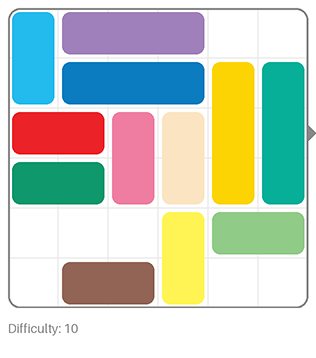
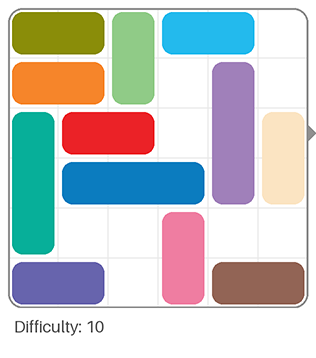
Increase the font size on the card and update the sample image

diff --git a/rushcards/draw.py b/rushcards/draw.py
@@ -18,15 +18,17 @@ BOARD_GRID_COLOR = "#E8E8E8"
 EXIT_SIZE = CELL_WIDTH // 6
 BOARD_PADDING = EXIT_SIZE
 
-CAR_PADDING_WIDTH = CELL_WIDTH // 12
-CAR_WIDTH = CELL_WIDTH - 2 * CAR_PADDING_WIDTH
+CAR_PADDING = CELL_WIDTH // 12
+CAR_WIDTH = CELL_WIDTH - 2 * CAR_PADDING
 CAR_BORDER_RADIUS = CAR_WIDTH // 4
-BOARD_BORDER_RADIUS = CAR_BORDER_RADIUS + CAR_PADDING_WIDTH  # Match rounded corners
+BOARD_BORDER_RADIUS = CAR_BORDER_RADIUS + CAR_PADDING  # Match rounded corners
 
 TEXT_COLOR = "#555555"
-TEXT_HEIGHT = CELL_WIDTH  # This is fairly arbitrary
-FONT_SIZE = CELL_WIDTH // 4
-DEBUG_FONT_SIZE = CELL_WIDTH // 6
+TEXT_BOX_HEIGHT = CELL_WIDTH  # This is fairly arbitrary
+TEXT_BOX_TOP_PADDING = CELL_WIDTH // 6
+TEXT_BOX_LEFT_PADDING = CELL_WIDTH // 8
+TEXT_FONT_SIZE = CELL_WIDTH // 3
+TEXT_DEBUG_FONT_SIZE = CELL_WIDTH // 5
 
 
 # Draw the board border, grid lines, and exit mark.
@@ -72,15 +74,15 @@ def draw_board(drawer, debug):
 def draw_car(drawer, car, color):
     # The start pixel is determined solely by the Car's position but
     # the end pixel depends on its orientation as well.
-    start_x = car.position.x * CELL_WIDTH + CAR_PADDING_WIDTH
-    start_y = car.position.y * CELL_WIDTH + CAR_PADDING_WIDTH
+    start_x = car.position.x * CELL_WIDTH + CAR_PADDING
+    start_y = car.position.y * CELL_WIDTH + CAR_PADDING
     end_x = (
-        (car.position.x + car.size) * CELL_WIDTH - CAR_PADDING_WIDTH
+        (car.position.x + car.size) * CELL_WIDTH - CAR_PADDING
         if car.orientation is Orientation.HORIZONTAL
         else start_x + CAR_WIDTH
     )
     end_y = (
-        (car.position.y + car.size) * CELL_WIDTH - CAR_PADDING_WIDTH
+        (car.position.y + car.size) * CELL_WIDTH - CAR_PADDING
         if car.orientation is Orientation.VERTICAL
         else start_y + CAR_WIDTH
     )
@@ -109,16 +111,16 @@ def draw_cars(drawer, cars, debug):
 def draw_text(drawer, puzzle, debug):
     text = f"Difficulty: {puzzle.difficulty}"
 
-    # Just use the default font, not worth packaging one.
-    drawer.text((0, FONT_SIZE), text, fill=TEXT_COLOR, font_size=FONT_SIZE)
+    # Just use the default font, it's not worth packaging one.
+    drawer.text((TEXT_BOX_LEFT_PADDING, TEXT_BOX_TOP_PADDING), text, fill=TEXT_COLOR, font_size=TEXT_FONT_SIZE)
 
     if debug:
         debug_text = puzzle.puzzle_def
         drawer.text(
-            (0, 3 * FONT_SIZE),
+            (TEXT_BOX_LEFT_PADDING, TEXT_BOX_TOP_PADDING * 2 + TEXT_FONT_SIZE),
             debug_text,
             fill=TEXT_COLOR,
-            font_size=DEBUG_FONT_SIZE,
+            font_size=TEXT_DEBUG_FONT_SIZE,
         )
 
 
@@ -133,7 +135,7 @@ def draw_puzzle(puzzle, debug):
     draw_board(board_drawer, debug)
     draw_cars(board_drawer, puzzle.cars, debug)
 
-    text_image = Image.new("RGB", (BOARD_WIDTH, TEXT_HEIGHT), PAGE_BACKGROUND_COLOR)
+    text_image = Image.new("RGB", (BOARD_WIDTH, TEXT_BOX_HEIGHT), PAGE_BACKGROUND_COLOR)
     text_drawer = ImageDraw.Draw(text_image, mode="RGBA")
     draw_text(text_drawer, puzzle, debug)
 
@@ -143,7 +145,7 @@ def draw_puzzle(puzzle, debug):
         "RGB",
         (
             BOARD_PADDING + BOARD_WIDTH + EXIT_SIZE,
-            BOARD_PADDING + BOARD_WIDTH + TEXT_HEIGHT,
+            BOARD_PADDING + BOARD_WIDTH + TEXT_BOX_HEIGHT,
         ),
         PAGE_BACKGROUND_COLOR,
     )
